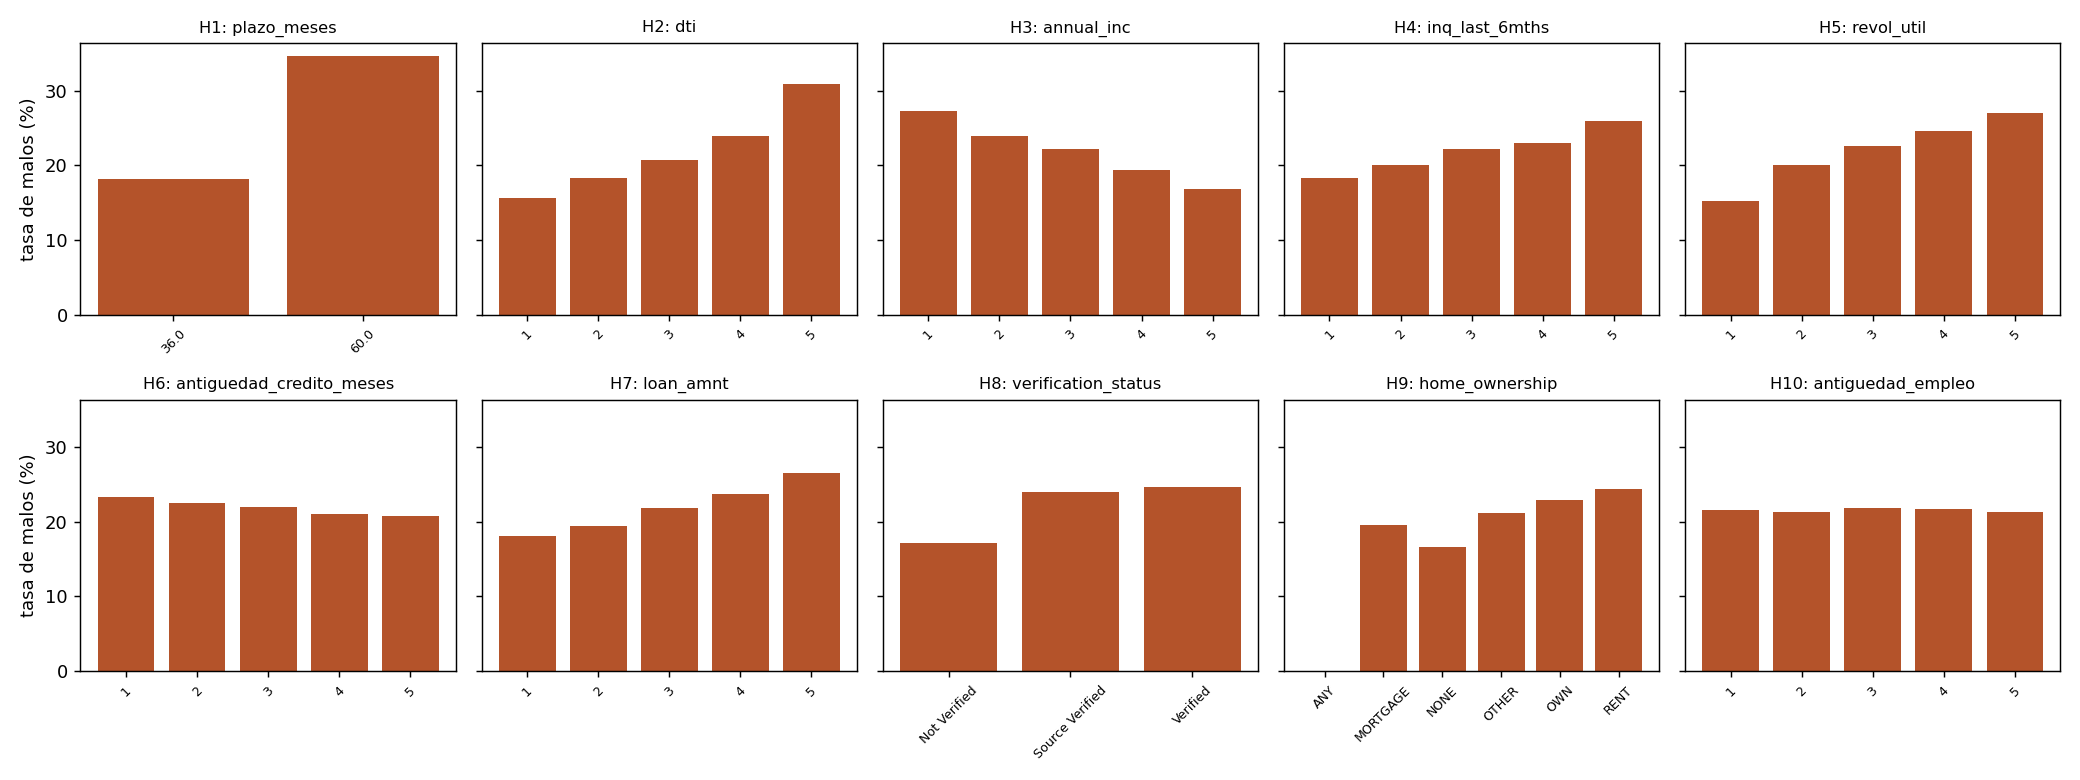
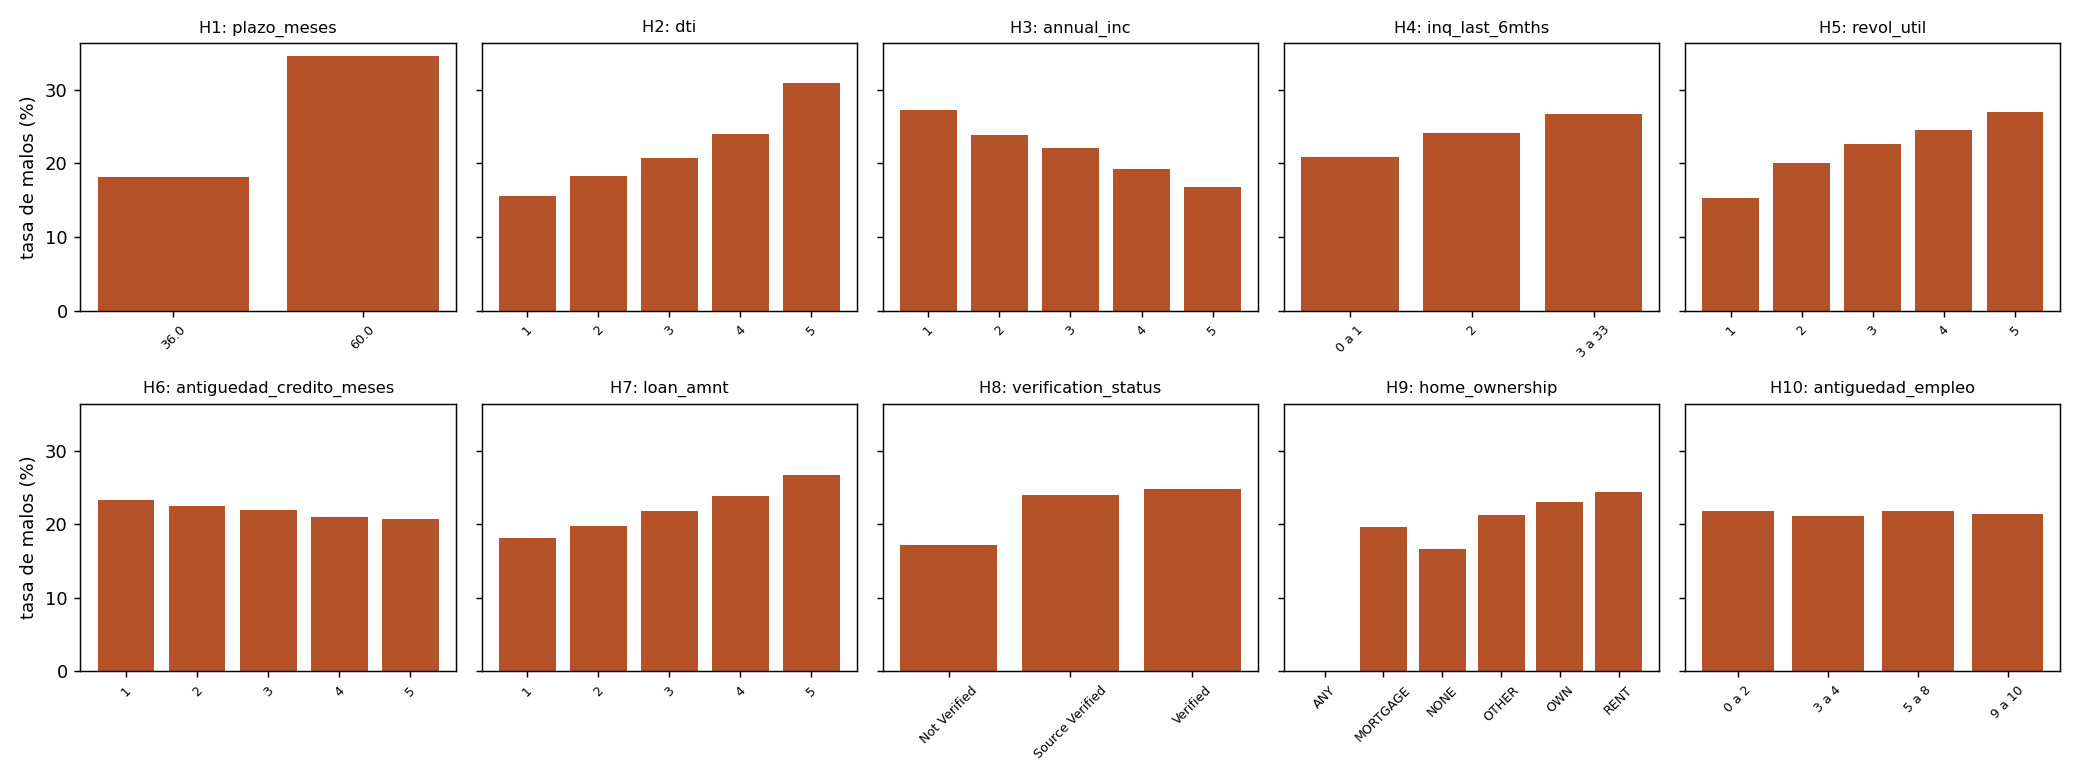
Hipótesis: quintiles por valor (A2) y H8 controlando el año (A3)

diff --git a/descriptivo.py b/descriptivo.py
@@ -45,8 +45,25 @@ COMPARACION = {
 
 
 def quintiles(serie):
-    """Quintil (1 a 5) de cada valor; rank() reparte los empates para que queden 5 grupos iguales."""
-    return pd.qcut(serie.rank(method="first"), 5, labels=[1, 2, 3, 4, 5])
+    """Grupo de cada valor segun los quintiles de la variable.
+
+    Los cortes van por valor, asi que un mismo valor queda siempre en el mismo grupo. Si la
+    variable tiene muchos valores repetidos (consultas, anios de empleo) salen menos de 5 grupos
+    y de distinto tamanio; entonces cada grupo se nombra por su rango ("3 a 33").
+    No se desempata con rank(): reparte los empates por el orden del archivo, que va con la fecha
+    (hallazgo A2 de registro_ia.md).
+    """
+    grupos = pd.qcut(serie, 5, duplicates="drop")
+    if len(grupos.cat.categories) == 5:
+        return grupos.cat.rename_categories([1, 2, 3, 4, 5])
+    rango = serie.groupby(grupos, observed=True).agg(["min", "max"])
+    nombres = [f"{a:g}" if a == b else f"{a:g} a {b:g}" for a, b in zip(rango["min"], rango["max"])]
+    return grupos.cat.rename_categories(nombres)
+
+
+def nombre_quintil(grupo):
+    """1 a 5 se muestran como "quintil 5"; los rangos ("3 a 33"), tal cual."""
+    return grupo if isinstance(grupo, str) else f"quintil {grupo}"
 
 
 def nombre_grupo(valor):
@@ -66,7 +83,8 @@ def evaluar(df, codigo, variable, agrupar, texto, sentido):
     tabla = tasa_por_grupo(df, variable, agrupar)
     if agrupar == "quintil":
         alto, bajo = tabla["mean"].iloc[-1], tabla["mean"].iloc[0]
-        detalle = f"quintil 5: {alto:.1%} vs quintil 1: {bajo:.1%}"
+        detalle = (f"{nombre_quintil(tabla.index[-1])}: {alto:.1%} vs "
+                   f"{nombre_quintil(tabla.index[0])}: {bajo:.1%}")
         diferencia = alto - bajo
     else:
         riesgoso, otro = COMPARACION[variable]

diff --git a/reporte/secciones/03_descriptivo_hipotesis.md b/reporte/secciones/03_descriptivo_hipotesis.md
@@ -10,12 +10,12 @@ Antes de mirar los datos escribimos diez hipótesis sobre qué hace más riesgos
 
 Para probarlas comparamos la tasa de malos entre grupos, con los 268 530 créditos que tienen desenlace conocido:
 
-- Si la variable es numérica, partimos a las personas en quintiles (cinco grupos del mismo tamaño) y comparamos el quintil más alto con el más bajo.
+- Si la variable es numérica, la cortamos en sus quintiles y comparamos el grupo de valores más altos con el de valores más bajos. Un mismo valor queda siempre en el mismo grupo. Por eso, en las variables con pocos valores distintos salen menos de cinco grupos: las consultas de crédito quedan en tres (0 a 1, 2, y 3 o más) y los años en el empleo, en cuatro. En esos casos la Tabla 5 nombra cada grupo por su rango.
 - Si es categórica, comparamos los dos grupos que nombra la hipótesis; por ejemplo, quien arrienda contra quien tiene hipoteca.
 
-Una hipótesis se confirma si la diferencia va en la dirección esperada y es de al menos un punto porcentual. Ese umbral no es arbitrario del todo. Cada quintil tiene unos 53 700 créditos, y con una tasa cercana al 20 % el error estándar de la diferencia entre dos quintiles es de $\sqrt{2 \cdot 0.2 \cdot 0.8 / 53\,700} \approx 0.24$ puntos porcentuales. Un punto equivale entonces a unos cuatro errores estándar: una diferencia de ese tamaño difícilmente sale por azar.
+Una hipótesis se confirma si la diferencia va en la dirección esperada y es de al menos un punto porcentual. El umbral tiene una razón. Un quintil tiene unos 53 700 créditos, y con una tasa cercana al 20 % el error estándar de la diferencia entre dos quintiles es de $\sqrt{2 \cdot 0.2 \cdot 0.8 / 53\,700} \approx 0.24$ puntos porcentuales. Un punto son entonces unos cuatro errores estándar, y una diferencia así difícilmente sale por azar. Los grupos de las variables con pocos valores son más grandes, así que allí el error es todavía menor.
 
-Este análisis tiene dos límites. Mira una variable a la vez, así que una hipótesis puede confirmarse por culpa de otra variable relacionada; el plazo y el monto, por ejemplo, van de la mano. Además, muestra asociaciones, no causas. En la sección 5 volvemos a estas hipótesis con el modelo, que sí tiene en cuenta todas las variables al tiempo.
+Este análisis tiene dos límites. Mira una variable a la vez, así que una hipótesis puede confirmarse por culpa de otra variable relacionada; el plazo y el monto, por ejemplo, van de la mano. Además, muestra asociaciones, no causas. En la sección 5 volvemos a estas hipótesis con el modelo, que tiene en cuenta todas las variables al tiempo.
 
 ### 3.2 Resultados
 
@@ -28,25 +28,27 @@ La Tabla 5 resume las diez hipótesis y la Figura 2 muestra la tasa de malos en 
 | H1          | Los créditos a 60 meses son más riesgosos que a 36                            | 60 meses: 34.6% vs 36 meses: 18.1%     | Sí              |
 | H2          | Quien ya debe más en proporción a su ingreso es más riesgoso                  | quintil 5: 31.0% vs quintil 1: 15.6%   | Sí              |
 | H3          | A mayor ingreso, menor riesgo                                                 | quintil 5: 16.8% vs quintil 1: 27.3%   | Sí              |
-| H4          | Muchas consultas recientes de crédito indican necesidad de plata y más riesgo | quintil 5: 26.0% vs quintil 1: 18.3%   | Sí              |
+| H4          | Muchas consultas recientes de crédito indican necesidad de plata y más riesgo | 3 a 33: 26.7% vs 0 a 1: 20.9%          | Sí              |
 | H5          | Quien usa casi todo su cupo de tarjetas es más riesgoso                       | quintil 5: 27.0% vs quintil 1: 15.3%   | Sí              |
 | H6          | Una historia crediticia más larga indica menos riesgo                         | quintil 5: 20.8% vs quintil 1: 23.3%   | Sí              |
-| H7          | Los préstamos más grandes son más riesgosos                                   | quintil 5: 26.5% vs quintil 1: 18.1%   | Sí              |
+| H7          | Los préstamos más grandes son más riesgosos                                   | quintil 5: 26.6% vs quintil 1: 18.1%   | Sí              |
 | H8          | Si el ingreso fue verificado, el riesgo es menor                              | Verified: 24.7% vs Not Verified: 17.1% | No              |
 | H9          | Quien arrienda es más riesgoso que quien tiene casa o hipoteca                | RENT: 24.4% vs MORTGAGE: 19.6%         | Sí              |
-| H10         | Más años en el mismo empleo, menos riesgo                                     | quintil 5: 21.3% vs quintil 1: 21.5%   | No              |
+| H10         | Más años en el mismo empleo, menos riesgo                                     | 9 a 10: 21.3% vs 0 a 2: 21.7%          | No              |
 
 *Fuente: elaboración propia con datos de Lending Club (ranadeep, 2021).*
 
 ![Figura 2](../resultados/descriptivo/tasa_por_variable.png)
 
-**Figura 2.** Tasa de malos por grupo para cada hipótesis. En las variables numéricas, los grupos son quintiles (1 = valores más bajos). *Fuente: elaboración propia.*
+**Figura 2.** Tasa de malos por grupo para cada hipótesis. En las variables numéricas, los grupos son quintiles (1 = valores más bajos) o, si la variable tiene pocos valores distintos, rangos de valores. *Fuente: elaboración propia.*
 
-Se confirman ocho de las diez. Las diferencias más grandes están en el plazo (H1: 34.6 % de malos a 60 meses contra 18.1 % a 36) y en la deuda frente al ingreso (H2: 31.0 % en el quintil más alto de `dti` contra 15.6 % en el más bajo). Les siguen el uso del cupo de las tarjetas (H5), el ingreso (H3), el monto del préstamo (H7) y las consultas recientes de crédito (H4). En la Figura 2 se ve que en todas estas la tasa sube o baja de forma ordenada de un quintil al siguiente, no solo entre los extremos.
+Se confirman ocho de las diez. Las diferencias más grandes están en el plazo (H1: 34.6 % de malos a 60 meses contra 18.1 % a 36) y en la deuda frente al ingreso (H2: 31.0 % en el quintil más alto de `dti` contra 15.6 % en el más bajo). Les siguen el uso del cupo de las tarjetas (H5), el ingreso (H3), el monto del préstamo (H7) y las consultas recientes de crédito (H4: 26.7 % con tres o más consultas en seis meses, 20.9 % con una o ninguna). En la Figura 2, la tasa de estas variables sube o baja paso a paso de un grupo al siguiente, y no solo entre los extremos.
 
 H6 se confirma, pero por poco: la diferencia es de 2.5 puntos (20.8 % contra 23.3 %). H9 también se confirma: quien arrienda tiene 24.4 % de malos y quien tiene hipoteca, 19.6 %.
 
-H10 no se confirma. La tasa de malos es prácticamente la misma en todos los quintiles de antigüedad en el empleo (21.3 % en el más alto y 21.5 % en el más bajo). Saber cuántos años lleva alguien en su trabajo no ayuda, por sí solo, a separar buenos de malos.
+H10 no se confirma. La tasa de malos casi no cambia con la antigüedad en el empleo: 21.7 % con dos años o menos y 21.3 % con nueve o diez, y los grupos del medio no siguen ningún orden. Saber cuántos años lleva alguien en su trabajo no ayuda, por sí solo, a separar buenos de malos.
+
+Una primera versión de esta tabla repartía los valores repetidos entre quintiles vecinos para que todos quedaran del mismo tamaño. El reparto seguía el orden del archivo, que va por fecha, y por eso en H4 dos grupos con el mismo valor (cero consultas) salían con tasas distintas: 18.3 % y 20.1 %. Al corregirlo cambiaron las cifras de H4 y H10, pero no las conclusiones. El hallazgo A2 de la sección 10 cuenta cómo lo encontramos.
 
 ### 3.3 La hipótesis que salió al revés: el ingreso verificado
 
@@ -57,18 +59,18 @@ H8 salió al contrario de lo esperado. Los créditos con ingreso verificado tien
 |   Quintil de monto | Monto máximo   | Sin verificar   | Malos: Not Verified   | Malos: Source Verified   | Malos: Verified   |
 |-------------------:|:---------------|:----------------|:----------------------|:-------------------------|:------------------|
 |                  1 | 6 250          | 51.9%           | 16.5%                 | 18.5%                    | 21.3%             |
-|                  2 | 10 000         | 45.6%           | 16.8%                 | 20.7%                    | 22.3%             |
-|                  3 | 14 400         | 38.3%           | 17.0%                 | 25.3%                    | 24.4%             |
-|                  4 | 20 000         | 27.7%           | 18.1%                 | 26.2%                    | 25.6%             |
-|                  5 | 35 000         | 5.3%            | 21.4%                 | 27.0%                    | 26.7%             |
+|                  2 | 10 000         | 44.9%           | 16.9%                 | 21.6%                    | 22.6%             |
+|                  3 | 14 400         | 37.6%           | 16.8%                 | 25.4%                    | 24.4%             |
+|                  4 | 20 000         | 26.2%           | 18.2%                 | 25.9%                    | 25.6%             |
+|                  5 | 35 000         | 5.1%            | 21.2%                 | 27.4%                    | 26.7%             |
 
 *Fuente: elaboración propia con datos de Lending Club (ranadeep, 2021). Montos en dólares.*
 
-Como muestra la Tabla 6, la sospecha era en parte cierta. La verificación depende mucho del monto: en el quintil más bajo la mitad de los créditos (51.9 %) no se verificó, y en el más alto solo el 5.3 %. Pero eso no explica todo, porque dentro de cada quintil los verificados siguen siendo más riesgosos que los no verificados: 21.3 % contra 16.5 % en el primero y 26.7 % contra 21.4 % en el quinto.
+La verificación depende mucho del monto: en el quintil más bajo la mitad de los créditos (51.9 %) no se verificó, y en el más alto solo el 5.1 %. Pero el monto no lo explica todo, porque dentro de cada quintil los verificados siguen teniendo más malos: 21.3 % contra 16.5 % en el primero y 26.7 % contra 21.2 % en el quinto.
 
-Concluimos que la verificación no se asigna al azar. Lending Club decide a quién se la pide, y si se la pide más a quien le parece más riesgoso por razones que no vemos en los datos, el grupo verificado carga con ese riesgo. Esto último es una conjetura: no encontramos una fuente primaria de Lending Club que describa su criterio de verificación, así que lo dejamos como pregunta abierta.
+Falta otra variable: el tiempo. En 2008 el 85 % de los créditos no se verificaba, y en 2015 solo el 26 %. En esos mismos años sube la tasa de malos, en parte por el sesgo de madurez de la sección 2. Comparando solo créditos del mismo año y plazo (Tabla P13, en la sección 5), la brecha baja de 7.6 a 2.9 puntos. De 2010 a 2013 queda entre −0.3 y +1.8 puntos, salvo a 60 meses en 2012, y solo es grande en 2014 y 2015, justo los años con sesgo de madurez. Casi toda la diferencia de H8 sale entonces del monto y del año en que se originó el crédito. El modelo de la sección 5 apunta a lo mismo. Cuando tiene en cuenta todas las variables a la vez, pasar de no verificado a verificado sube la probabilidad de no pagar apenas 0.1 puntos porcentuales en la red (Tabla P12).
 
-Para un modelo predictivo, "verificado" sí indica más riesgo y es correcto usarlo. Como consejo sería un error: no verificar el ingreso no hace a nadie mejor pagador. Por eso, en la aplicación, el "¿qué pasaría si...?" no debería sugerir cambiar el estado de verificación como forma de mejorar el puntaje.
+Queda una brecha pequeña que no sabemos explicar. Puede venir de cómo decide Lending Club a quién le pide la verificación, pero no encontramos una fuente primaria que describa ese criterio, así que lo dejamos como pregunta abierta. Lo que sí está claro es que verificar o no el ingreso no vuelve a nadie mejor o peor pagador. Por eso, en la aplicación, el "¿qué pasaría si...?" no ofrece cambiar el estado de verificación.
 
 #### Referencias citadas en esta sección
 

diff --git a/reporte/secciones/10_caceria.md b/reporte/secciones/10_caceria.md
@@ -52,11 +52,11 @@ Si tuviéramos que proponer uno para el premio, sería **A2**. Es el más sutil:
 
 #### A2. Quintiles que dependen del orden del archivo
 
-1. **Prompt literal:** falta que Juan Pablo confirme cuál fue. El código aparece en el commit `8ebceb5` y el comentario en `998a304` (prompt 2 de la tabla).
+1. **Prompt literal:** el prompt 1 de la tabla (2026-10-26, Claude Code): `Listo hora del taller dos, segun la experiencia con el uno, este texto y el enunciado en descargas cual es el plan para hacerlo? necesitas mas info? la idea es pensar en que hará cada uno y en que el codigo sea lo mas modular, facil de entender y humanizado posible, sin nada muy raro`. La función salió en el commit `8ebceb5` (22:53), antes del siguiente mensaje de Juan Pablo (22:54), según el historial de la conversación. El comentario se reescribió en `998a304` (prompt 2) sin cambiar el código.
 2. **Lo que dijo la IA:** en `descriptivo.py`, `pd.qcut(serie.rank(method="first"), 5, ...)`, con el comentario *"rank() reparte los empates para que queden 5 grupos iguales"*.
 3. **Cómo se sospechó:** al explorar los datos para la PD, los quintiles 1 y 2 de `inq_last_6mths` contienen solo el valor 0 y aun así tienen tasas de malos distintas.
 4. **Evidencia:** `method="first"` desempata por la posición en el archivo, y esa posición está correlacionada con la fecha (0.73). El quintil 1 de H4 tiene año medio 2012.06 y 18.3 % de malos; el quintil 2, año medio 2013.09 y 20.1 %. La tasa real de `inq_last_6mths = 0` es 19.9 % (`df.groupby("inq_last_6mths")["malo"].mean()`). La Tabla 5 compara contra ese 18.3 % y la sección 3.2 dice que la tasa sube "de forma ordenada" de un quintil al siguiente, lo que en H4 es en parte un efecto del orden. H10 tiene el mismo problema con los empates en 10 años. Las conclusiones de H4 (sí) y H10 (no) no cambian: con 0 consultas hay 19.9 % de malos y con 2, 24.2 %.
-5. **Corrección:** en la sección 5 comparamos valores concretos de la variable (percentiles 10 y 90), no quintiles. Queda pendiente que Juan Pablo decida si corrige `descriptivo.py` y la Tabla 5, por ejemplo agrupando por valor en las variables con muchos empates.
+5. **Corrección:** en la sección 5 comparamos valores concretos de la variable (percentiles 10 y 90), no quintiles. En `descriptivo.py`, `quintiles()` ahora corta por valor: un mismo valor queda siempre en el mismo grupo, y en las variables con muchos empates salen menos grupos, nombrados por su rango. H4 queda en 26.7 % (3 o más consultas) contra 20.9 % (0 a 1) y H10 en 21.3 % (9 a 10 años) contra 21.7 % (0 a 2). Las conclusiones no cambian. La sección 3 cuenta el error.
 6. **Lección:** un desempate "para que queden grupos iguales" le agrega información ajena a la variable. Verificación que lo habría evitado: revisar el mínimo y el máximo de cada grupo.
 
 #### A3. "Verificado indica más riesgo", sin controlar el tiempo
@@ -65,7 +65,7 @@ Si tuviéramos que proponer uno para el premio, sería **A2**. Es el más sutil:
 2. **Lo que dijo la IA:** sección 3.3: *"dentro de cada quintil los verificados siguen siendo más riesgosos que los no verificados"*, y *"Para un modelo predictivo, "verificado" sí indica más riesgo y es correcto usarlo"*.
 3. **Cómo se sospechó:** la dependencia parcial de los modelos da +0.1 puntos (red) y +0.4 (logística), y la variable casi no importa: su importancia por permutación es de 0.0007.
 4. **Evidencia:** la Tabla 6 controla solo el monto. La verificación también cambia con los años, y los años recientes tienen más malos por el sesgo de madurez. Comparando dentro de cada año y plazo (`resultados/pd/verificacion_anio_plazo.md`), la brecha baja de 7.6 a 2.9 puntos; de 2010 a 2013 está entre −0.3 y +1.8 (salvo −5.0 a 60 meses en 2012), y solo en 2014-2015 es grande (de 4.3 a 9.1).
-5. **Corrección:** la sección 5.6 lo explica. Queda pendiente que Juan Pablo ajuste la frase de la sección 3.3; la conclusión práctica sobre la aplicación (D12) no cambia.
+5. **Corrección:** la sección 5.6 lo explica, y la sección 3.3 se reescribió: casi toda la brecha sale del monto y del año (en 2008 el 85 % no se verificaba y en 2015 el 26 %), y se quitó la frase de que "verificado" indica más riesgo. La conclusión práctica sobre la aplicación no cambia.
 6. **Lección:** cuando la población cambia con el tiempo, controlar una sola variable no basta para interpretar una diferencia. Verificación que lo habría evitado: repetir la comparación dentro de cada año.
 
 #### A4. Una prueba que se caía por culpa de la prueba

diff --git a/resultados/descriptivo/hipotesis.md b/resultados/descriptivo/hipotesis.md
@@ -3,10 +3,10 @@
 | H1          | Los créditos a 60 meses son más riesgosos que a 36                            | 60 meses: 34.6% vs 36 meses: 18.1%     | Sí              |
 | H2          | Quien ya debe más en proporción a su ingreso es más riesgoso                  | quintil 5: 31.0% vs quintil 1: 15.6%   | Sí              |
 | H3          | A mayor ingreso, menor riesgo                                                 | quintil 5: 16.8% vs quintil 1: 27.3%   | Sí              |
-| H4          | Muchas consultas recientes de crédito indican necesidad de plata y más riesgo | quintil 5: 26.0% vs quintil 1: 18.3%   | Sí              |
+| H4          | Muchas consultas recientes de crédito indican necesidad de plata y más riesgo | 3 a 33: 26.7% vs 0 a 1: 20.9%          | Sí              |
 | H5          | Quien usa casi todo su cupo de tarjetas es más riesgoso                       | quintil 5: 27.0% vs quintil 1: 15.3%   | Sí              |
 | H6          | Una historia crediticia más larga indica menos riesgo                         | quintil 5: 20.8% vs quintil 1: 23.3%   | Sí              |
-| H7          | Los préstamos más grandes son más riesgosos                                   | quintil 5: 26.5% vs quintil 1: 18.1%   | Sí              |
+| H7          | Los préstamos más grandes son más riesgosos                                   | quintil 5: 26.6% vs quintil 1: 18.1%   | Sí              |
 | H8          | Si el ingreso fue verificado, el riesgo es menor                              | Verified: 24.7% vs Not Verified: 17.1% | No              |
 | H9          | Quien arrienda es más riesgoso que quien tiene casa o hipoteca                | RENT: 24.4% vs MORTGAGE: 19.6%         | Sí              |
-| H10         | Más años en el mismo empleo, menos riesgo                                     | quintil 5: 21.3% vs quintil 1: 21.5%   | No              |
+| H10         | Más años en el mismo empleo, menos riesgo                                     | 9 a 10: 21.3% vs 0 a 2: 21.7%          | No              |

diff --git a/resultados/descriptivo/verificacion.md b/resultados/descriptivo/verificacion.md
@@ -1,7 +1,7 @@
 |   Quintil de monto | Monto máximo   | Sin verificar   | Malos: Not Verified   | Malos: Source Verified   | Malos: Verified   |
 |-------------------:|:---------------|:----------------|:----------------------|:-------------------------|:------------------|
 |                  1 | 6 250          | 51.9%           | 16.5%                 | 18.5%                    | 21.3%             |
-|                  2 | 10 000         | 45.6%           | 16.8%                 | 20.7%                    | 22.3%             |
-|                  3 | 14 400         | 38.3%           | 17.0%                 | 25.3%                    | 24.4%             |
-|                  4 | 20 000         | 27.7%           | 18.1%                 | 26.2%                    | 25.6%             |
-|                  5 | 35 000         | 5.3%            | 21.4%                 | 27.0%                    | 26.7%             |
+|                  2 | 10 000         | 44.9%           | 16.9%                 | 21.6%                    | 22.6%             |
+|                  3 | 14 400         | 37.6%           | 16.8%                 | 25.4%                    | 24.4%             |
+|                  4 | 20 000         | 26.2%           | 18.2%                 | 25.9%                    | 25.6%             |
+|                  5 | 35 000         | 5.1%            | 21.2%                 | 27.4%                    | 26.7%             |
